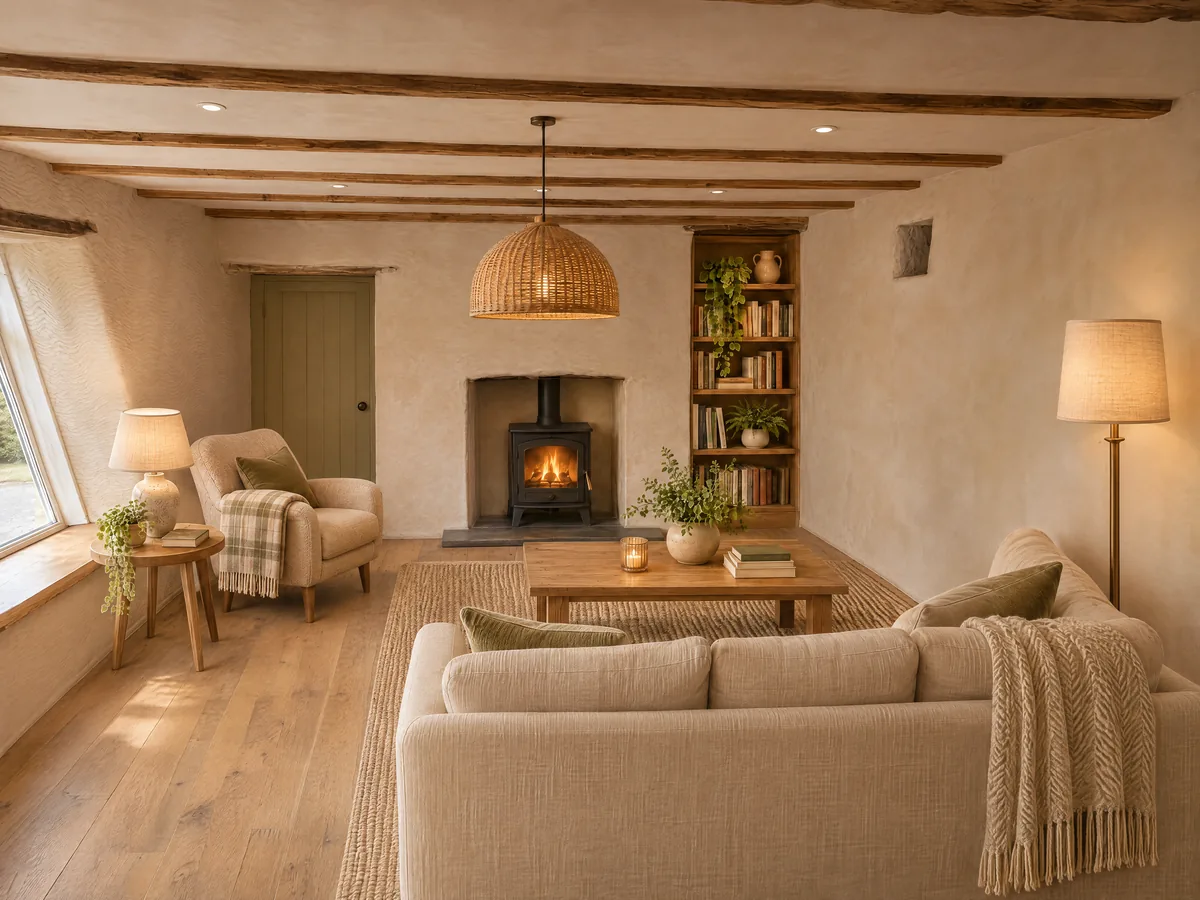
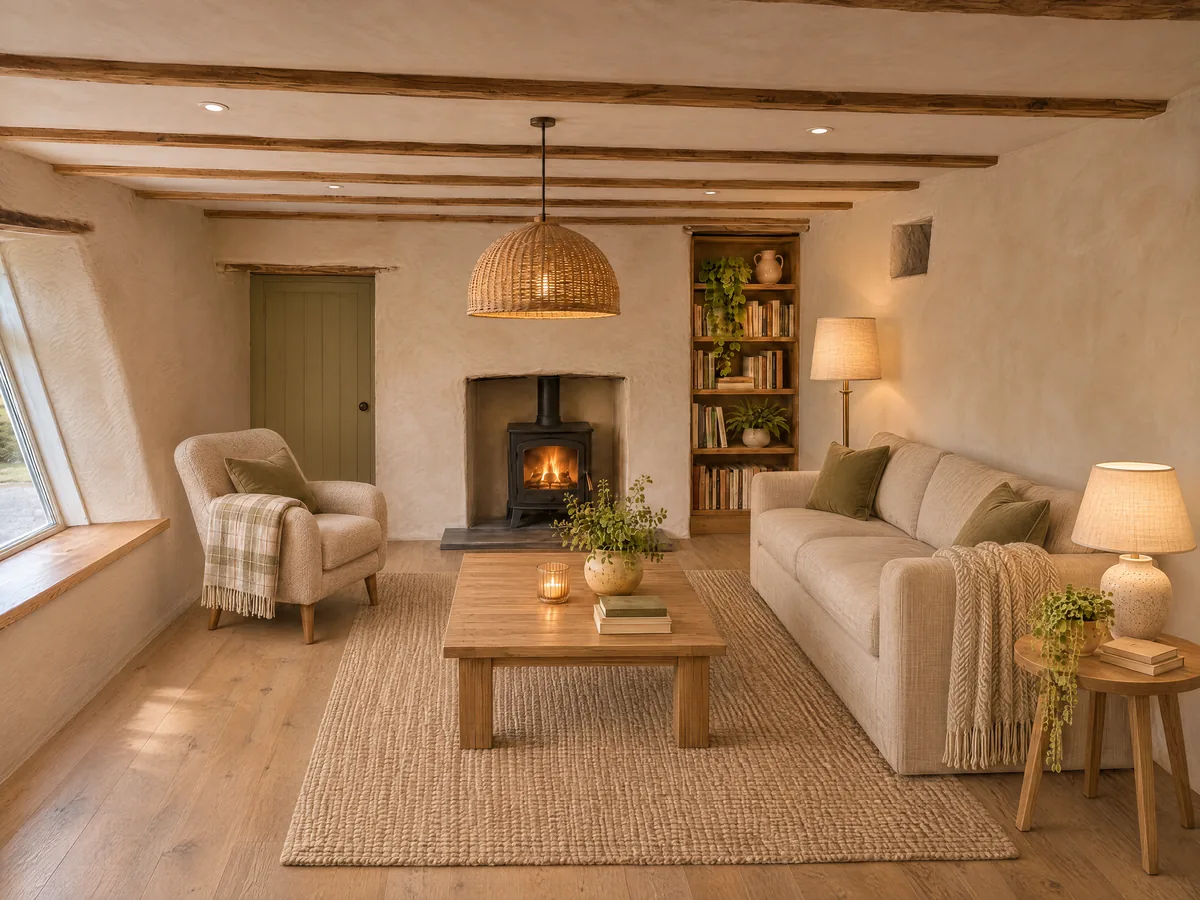
Before & after: new take with one fixed furniture layout across all views
Sofa back against the niche wall, armchair by the window at the fireplace
end, coffee table centred; same positions in every angle.

Claude-Session: https://claude.ai/code/session_01BZrB8QthQWLQKeAKFib3sv

diff --git a/transformations/index.html b/transformations/index.html
@@ -115,9 +115,9 @@ h1{font:500 clamp(48px,9vw,104px)/.98 'Cormorant Garamond',Georgia,serif;letter-
   var ROOMS = [
     { id: 'chimney', name: 'Looking to the fireplace', note: 'The wood burner goes into the original fireplace opening.', feature: true,
       before: 'The lounge as it is: rubble, tools and boxes in front of an empty fireplace opening' },
-    { id: 'corner', name: 'From the corner', note: 'The sofa faces the fire, with an armchair by the window.',
+    { id: 'corner', name: 'From the corner', note: 'The sofa sits back to the wall; the armchair takes the window corner by the fire.',
       before: 'The lounge from the corner, with the window on the left and clutter across the floor' },
-    { id: 'hall', name: 'Towards the hall', note: 'A walkway stays clear behind the sofa to the hall.',
+    { id: 'hall', name: 'Towards the hall', note: 'The sofa runs along the left wall, leaving the way to the hall clear.',
       before: 'The lounge looking towards the hall opening, with boxes and building materials' },
     { id: 'window', name: 'The window', note: 'The view outside is the real one.',
       before: 'The window wall as it is, with a bucket and building materials below the sill' }
